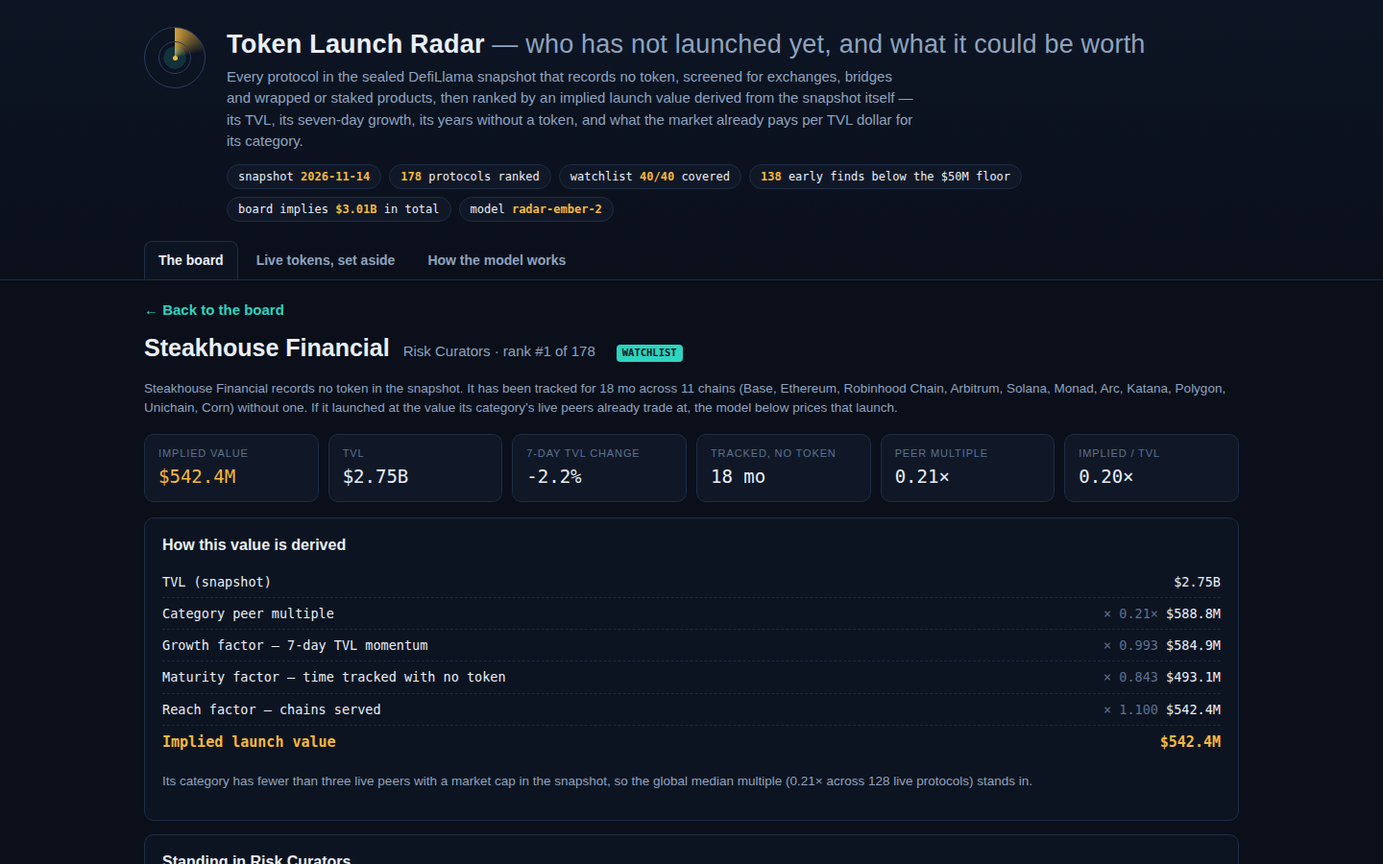
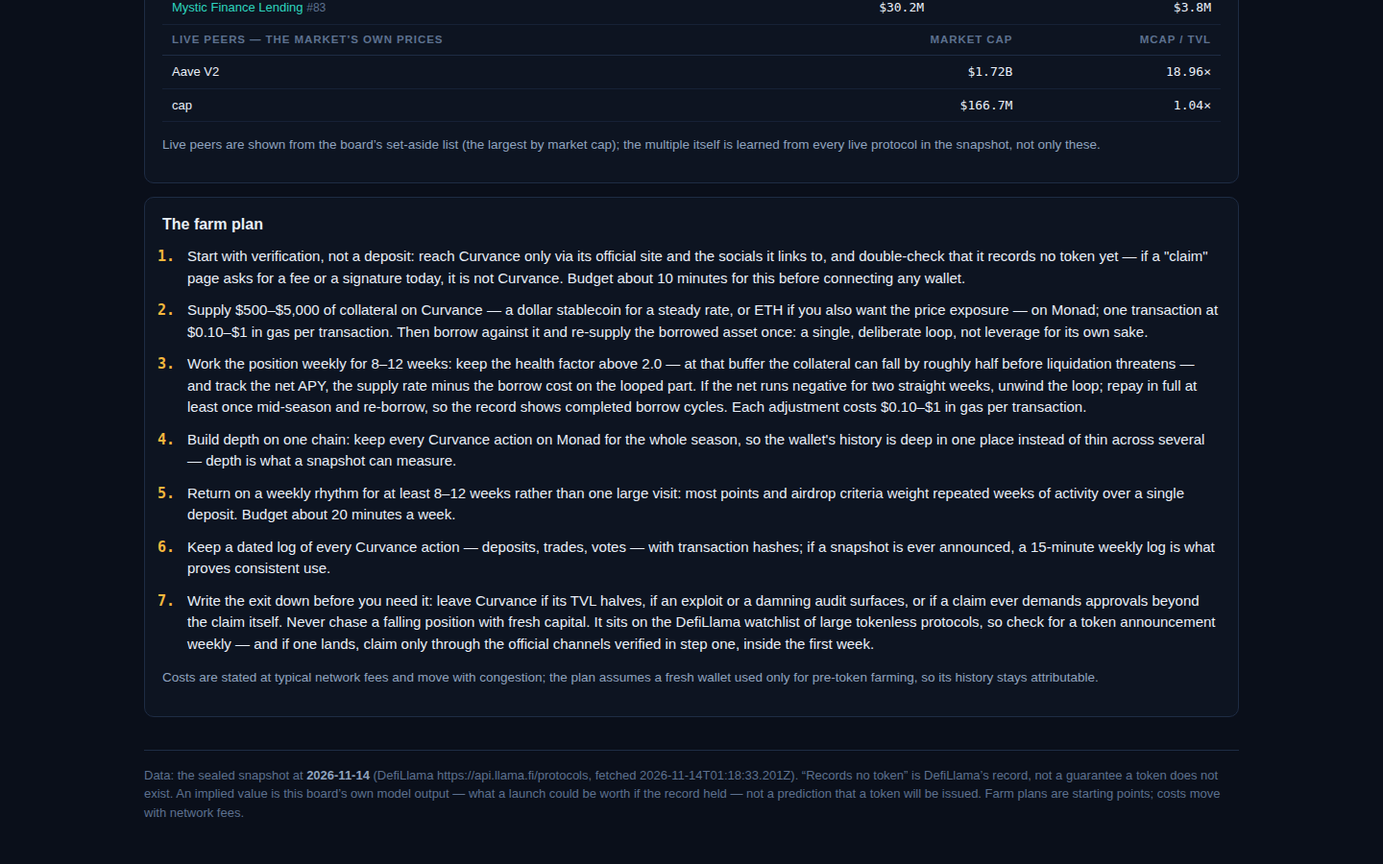
Upload via Muse GitHub connector

Changed region(s): [[0.0938, 0.0, 0.9062, 1.0]]

diff --git a/lib/model.ts b/lib/model.ts
@@ -237,10 +237,26 @@ function sizeTier(tvl: number): string {
   return '$100–$1,000';
 }
 
+/** A small deterministic hash of a slug, so wording variants are stable per protocol. */
+function slugHash(slug: string): number {
+  let h = 0;
+  for (let i = 0; i < slug.length; i++) h = (h * 31 + slug.charCodeAt(i)) >>> 0;
+  return h;
+}
+
+/** Pick one of `variants` for this slug, deterministically — the same protocol always reads the same. */
+function variant<T>(slug: string, variants: readonly T[]): T {
+  return variants[slugHash(slug) % variants.length]!;
+}
+
 /**
- * The farm plan: five concrete steps per protocol, written from its category playbook and its own
- * figures — where to start, what to deposit or trade, how often to return, what it costs and how
- * long it takes. Steps name costs and time because a plan without them is a slogan.
+ * The farm plan: seven concrete steps per protocol, written from its category playbook and its own
+ * figures. The first step verifies the premise — official channels only, and the protocol still
+ * records no token — and the last step sets the safety and exit rules; both rotate through several
+ * phrasings so no two protocols read as the same template. The two middle steps carry the category's
+ * real mechanics: a lending loop is not a bridge run is not a vault hold. Then one step written from
+ * the protocol's own record, the weekly rhythm, and the activity log. Steps name costs and time
+ * because a plan without them is a slogan.
  */
 export function farmSteps(p: SnapshotProtocol, onWatchlist: boolean, asOf: string): string[] {
   const home = cheapestChain(p.chains);
@@ -248,12 +264,16 @@ export function farmSteps(p: SnapshotProtocol, onWatchlist: boolean, asOf: strin
   const size = sizeTier(p.tvl_usd);
   const where = p.chains.length > 1 ? `${cost.note} — the cheapest of its ${p.chains.length} chains to farm on` : cost.note;
   const cat = p.category ?? 'DeFi';
-  const open = `Open ${p.name} on ${where} and connect a fresh wallet you use only for pre-token farming, so its activity is clean to attribute. Setup takes about 10 minutes and costs ${cost.gas}.`;
+
+  // Step 1 — verify the premise before any funds move. Four phrasings, one per protocol.
+  const verify = variant(p.slug, [
+    `Before any funds move, verify ${p.name} through its official channels only — the site linked from its DefiLlama page and its linked socials — and confirm it still records no token: no contract address, no claim page, no trading pair. The check takes about 10 minutes and is what keeps a fake claim site from taking the whole position.`,
+    `Start with verification, not a deposit: reach ${p.name} only via its official site and the socials it links to, and double-check that it records no token yet — if a "claim" page asks for a fee or a signature today, it is not ${p.name}. Budget about 10 minutes for this before connecting any wallet.`,
+    `Confirm the premise first: open ${p.name} from a source you trust, never a search ad or a DM link, and verify no token exists — no listed contract, no pair, no claim portal. This board ranks it precisely because it records no token; spend 10 minutes proving that is still true before acting.`,
+    `Do the counterfeit check first: find ${p.name}'s official site and socials independently, confirm the addresses match across both, and confirm it still records no token. Impostor claim sites are the main way pre-token farmers lose money, and the check takes about 10 minutes.`,
+  ]);
   const track = `Keep a dated log of every ${p.name} action — deposits, trades, votes — with transaction hashes; if a snapshot is ever announced, a 15-minute weekly log is what proves consistent use.`;
   const habit = `Return on a weekly rhythm for at least 8–12 weeks rather than one large visit: most points and airdrop criteria weight repeated weeks of activity over a single deposit. Budget about 20 minutes a week.`;
-  const close = onWatchlist
-    ? `Watch for a ${p.name} token announcement each week — it sits on the DefiLlama watchlist of large tokenless protocols, so set a calendar check; when claims open, act in the first days, not the last.`
-    : `Watch for a ${p.name} token announcement each week and re-check its TVL trend monthly; if TVL falls for three straight months, move the capital to a higher-ranked board row instead.`;
   // One step written from this protocol's own record: momentum, decline, longevity or reach.
   const age = ageDays(asOf, p.listed_at);
   let signal: string;
@@ -270,28 +290,108 @@ export function farmSteps(p: SnapshotProtocol, onWatchlist: boolean, asOf: strin
   }
   const byCategory: Record<string, string[]> = {
     Lending: [
-      `Supply ${size} of a major asset (ETH or a dollar stablecoin) as collateral on ${p.name}; supplying is one transaction at ${cost.gas} and starts earning the supply rate immediately.`,
-      `Borrow a small, safe amount against the collateral — keep the health factor above 2.0 — and repay within the same week: a completed borrow-and-repay cycle is the usage pattern lending launches usually reward, and it costs one extra round trip of gas.`,
+      `Supply ${size} of collateral on ${p.name} — a dollar stablecoin for a steady rate, or ETH if you also want the price exposure — on ${where}; one transaction at ${cost.gas}. Then borrow against it and re-supply the borrowed asset once: a single, deliberate loop, not leverage for its own sake.`,
+      `Work the position weekly for 8–12 weeks: keep the health factor above 2.0 — at that buffer the collateral can fall by roughly half before liquidation threatens — and track the net APY, the supply rate minus the borrow cost on the looped part. If the net runs negative for two straight weeks, unwind the loop; repay in full at least once mid-season and re-borrow, so the record shows completed borrow cycles. Each adjustment costs ${cost.gas}.`,
     ],
     Dexs: [
-      `Swap ${size} across the main pairs on ${p.name} in 4–6 separate trades over two weeks rather than one block: consistent volume with ${cost.gas} per swap reads as real use, not wash activity.`,
-      `Add a two-sided liquidity position of ${size} to a top-three pool by TVL and leave it at least a month; LP positions are the deepest usage signal a DEX records, and withdrawing early forfeits most of it.`,
-    ],
-    Yield: [
-      `Deposit ${size} into ${p.name}'s flagship vault and hold the position at least 8 weeks; vault share balance over time is the record a launch would most plausibly snapshot.`,
-      `Claim or compound the vault's yield every two weeks — each claim is one transaction at ${cost.gas} — so the wallet shows an unbroken history of active, returning use.`,
+      `Generate genuine volume on ${p.name}: swap ${size} in total across its main pairs in 6–10 separate trades over the first two weeks, on ${where} at ${cost.gas} per swap. Never wash trade — no round-trips or self-matched trades placed only to inflate volume; DEX launches screen for exactly that, and it can void a wallet's whole history. Every trade should move you between assets you actually want to hold.`,
+      `Split the flow between maker and taker: rest limit orders where ${p.name} supports them — maker fees typically run a fraction of taker fees — and take liquidity only for real rebalancing. Then add ${size} of two-sided liquidity to a top-three pool and leave it at least a month: LP depth held over time is the deepest usage signal a DEX records.`,
     ],
     Derivatives: [
-      `Open small perpetual positions totalling ${size} of margin on ${p.name}, a few trades a week for a month: steady volume across separate days is the metric derivatives launches track, at ${cost.gas} per order.`,
-      `Keep total leverage under 3x and close every position before funding payments compound; the goal is a long, ordinary trading history, not profit — cap the whole experiment's loss at 5% of the margin.`,
+      `Trade small perpetuals on ${p.name}: a few trades a week for at least a month, ${size} of margin in total, on ${where} at ${cost.gas} per order. Prefer maker orders where offered — maker fees run well below taker fees — and hedge directional trades with an offsetting spot position, so the flow is genuine hedging rather than volume for its own sake. Never wash trade: self-matched volume is screened out and can disqualify the wallet outright.`,
+      `Respect the funding rate: before holding a position overnight, check whether longs or shorts are paying funding on ${p.name} and avoid sitting on the paying side for days. Keep leverage under 3x, close positions before funding compounds, and cap the whole experiment's loss at 5% of the margin — over 8–12 weeks the prize is a long, ordinary trading history, not profit.`,
     ],
-    Perps: [
-      `Open small perpetual positions totalling ${size} of margin on ${p.name}, a few trades a week for a month: steady volume across separate days is the metric derivatives launches track, at ${cost.gas} per order.`,
-      `Keep total leverage under 3x and close every position before funding payments compound; the goal is a long, ordinary trading history, not profit — cap the whole experiment's loss at 5% of the margin.`,
+    Yield: [
+      `Deposit ${size} into ${p.name}'s flagship vault on ${where} — one transaction at ${cost.gas}. Before depositing, name the vault's yield source in your log: lending interest, trading fees, or emissions. Yield paid from real revenue can survive to a launch; yield promised from a token that does not exist yet is a hope, and should be sized like one.`,
+      `Track the share token, not the balance: record the vault shares received and the share price weekly for 8–12 weeks — share-price growth is the vault's true return, since the share count never changes. Mid-season, test the exit with a small withdrawal and time it: withdrawal queues and cooldowns lengthen exactly when everyone leaves, and knowing yours in advance is part of the position.`,
+    ],
+    'Yield Aggregator': [
+      `Deposit ${size} into ${p.name}'s main auto-compounding vault on ${where} at ${cost.gas}. An aggregator routes deposits across underlying farms, so read which strategies the vault currently runs and where its APY is sourced before the deposit — you are farming the aggregator's choices as much as your own.`,
+      `Let it compound untouched for at least 8 weeks: the unbroken, compounding balance is the record a launch would snapshot. Check monthly that the vault has not rotated into a strategy you would not pick yourself, and make one small test withdrawal mid-season to learn its exit timing and fees while nothing is urgent.`,
+    ],
+    'Risk Curators': [
+      `Deposit ${size} into a ${p.name}-curated vault on ${where} — one transaction at ${cost.gas}. Curators allocate other people's money across lending markets, so choose the vault by its stated risk framework — which collateral it accepts, its loan-to-value caps — rather than by the highest APY on the page.`,
+      `Monitor the curation, not just the yield: a curator can reallocate between markets and loosen or tighten risk parameters at any time, so re-read the vault's allocations monthly across the 8–12 week season. If it moves into collateral you would not hold directly, withdraw — the curator's track record is only worth farming while its risk stays inside yours.`,
+    ],
+    'Onchain Capital Allocator': [
+      `Allocate ${size} through ${p.name}'s main vault or strategy on ${where} at ${cost.gas}. Allocators route capital across on-chain opportunities under a stated mandate, so read the current allocation breakdown first: which protocols hold the money, in what proportions, and what the strategy may change without asking.`,
+      `Hold the allocation for a full 8–12 week season and follow the rebalances: log each time ${p.name} shifts capital between strategies, and claim or compound distributions on the protocol's own schedule. A season of continuously held, rebalanced allocation is exactly the history an allocator's launch can measure.`,
+    ],
+    'Basis Trading': [
+      `Run a small delta-neutral basis position through ${p.name} with ${size}: pair a spot holding against an offsetting short (or the reverse) to harvest funding and spread, on ${where} at ${cost.gas} per leg. Confirm both legs are live before sizing up — an unpaired leg is a directional bet wearing a basis trade's clothes.`,
+      `Check the carry weekly for 8–12 weeks: funding flips sign, so log the net carry after all fees each week and close the position if it stays negative for two straight weeks. Keep margin buffers wide on both legs — a basis trade's real risk is one leg liquidating in a fast move, not the spread closing.`,
     ],
     CDP: [
-      `Open a collateralised position on ${p.name}: deposit ${size} of ETH or a liquid staking token and mint the stablecoin at a conservative 200%+ collateral ratio, one transaction at ${cost.gas}.`,
-      `Hold the minted position open for at least 8 weeks and service it monthly — top up or repay a little each month — so the wallet's record shows a maintained vault, not a drive-by mint.`,
+      `Open a collateralised position on ${p.name}: deposit ${size} of ETH or a liquid staking token on ${where} and mint its stablecoin at a collateral ratio of 200% or higher — one transaction at ${cost.gas}. The wide buffer is deliberate: at 200%, the collateral can fall by half before liquidation threatens the position.`,
+      `Hold the minted position open at least 8 weeks and service it monthly — top up collateral after sharp drops, or repay a little — while watching the stability fee, which accrues against the debt continuously. The position's net cost is that fee minus whatever the minted stablecoin earns where you park it; a maintained vault, not a drive-by mint, is the record that counts.`,
+    ],
+    Bridge: [
+      `Move real funds through ${p.name}: bridge ${size} to a chain you genuinely use, carrying your own working balances on trips you would make anyway, at its stated fee plus ${cost.gas} per transfer. Never bridge funds back and forth just to manufacture volume — bridge analytics flag round-trip patterns, and flagged flow is worth less than none.`,
+      `Diversify the routes over 8–12 weeks: use at least three different source-and-destination pairs ${p.name} supports, and cap the all-in cost of each transfer at roughly 0.5% of the amount moved — if a route quotes more, wait for a cheaper window. Route diversity with a real purpose behind it is the history a bridge launch can reward.`,
+    ],
+    'Liquid Staking': [
+      `Stake ${size} of the chain's native asset through ${p.name} on ${where} at ${cost.gas}, and hold the liquid staking token you receive. Note the exchange rate at deposit in your log: the rate, not the token count, carries the staking yield, and an unbroken hold is what a duration-weighted record rewards.`,
+      `Hold the staking token for at least 8–12 weeks; put a portion to work as collateral or in a liquidity pool if you want the composability these tokens exist for. Before adding size, run one small unstake and time it end to end — staking exit queues run from days to weeks, and that wait is part of the position's real cost.`,
+    ],
+    Restaking: [
+      `Restake ${size} of an already-staked asset through ${p.name} on ${where} at ${cost.gas}: you keep the base staking yield and add the restaking layer's record on top. First read exactly which services the restaked capital secures — that list, and its slashing conditions, is the extra risk being accepted.`,
+      `Hold the restaked position for a full season of at least 8–12 weeks, tracking base staking yield and restaking incentives as separate lines in your log. Test a small exit mid-season and time it: restaking withdrawal queues can run a week or more, and an exit you have rehearsed is worth more than a yield point.`,
+    ],
+    Chain: [
+      `Be an early citizen of the ${p.name} chain rather than a passer-by: bridge ${size} in through its official route and keep it on-chain for the season. A pre-token chain can only reward wallets that were genuinely there, and bridged-and-used beats bridged-and-idle; the bridge-in costs the bridge's fee plus ${cost.gas}.`,
+      `Use the chain weekly for 8–12 weeks — ordinary transfers, its first-party apps, a small permanent balance left on-chain. If a validator or staking programme exists, stake a portion: on a chain with no token yet, transacting and staking are the two histories a genesis allocation can actually measure.`,
+    ],
+    'Staking Pool': [
+      `Stake ${size} through ${p.name}'s pool on ${where} at ${cost.gas} and hold the staking receipt: pooled staking is the whole product, so the record that matters is stake duration and continuity, not trading activity around it.`,
+      `Leave the stake untouched for at least 8–12 weeks, compounding rewards back in monthly where the pool allows it. Learn the unbonding period before you need it — pooled stakes can take days to weeks to release, and that queue is a real cost of the position, not a detail.`,
+    ],
+    'Liquidity Manager': [
+      `Deposit ${size} into ${p.name}'s managed liquidity position on ${where} at ${cost.gas}. The manager sets and rebalances the price range for you, so read its stated range strategy and recent fee history first: you are farming the manager's competence as much as the pool's volume.`,
+      `Hold at least 8 weeks while the manager works: log each rebalance and the fees earned net of impermanent loss. If the position sits out of range for two straight weeks with no rebalance, withdraw — a managed position nobody manages earns nothing and still carries the pool's risk.`,
+    ],
+    CeDeFi: [
+      `Onboard with ${p.name} before depositing anything: account setup, identity checks and terms can take several days, and CeDeFi yields are generated through centralised or off-chain venues — read how returns are produced and what custody you are accepting, then place ${size} in its main product at ${cost.gas} per action.`,
+      `Keep the position for one full product term (typically 4–12 weeks) and withdraw once at maturity to prove the exit works end to end. Size this as the riskiest slice of the whole farm: the counterparty is the protocol itself, and no on-chain record diversifies that away.`,
+    ],
+    'Anchor BTC': [
+      `Bring ${size} of bitcoin exposure to ${p.name} through its stated route on ${where}: BTC-anchored products take deposits of BTC or a BTC derivative, so confirm exactly which asset it accepts and what receipt asset you get back — the receipt is your real position. Any wrap or bridge fee sits on top of ${cost.gas}.`,
+      `Hold for at least 8–12 weeks and check the backing monthly wherever ${p.name} publishes reserves or mint-and-burn records. BTC products live or die on redemption: test a small withdrawal mid-season and time it, because an exit that takes days changes what the position is actually worth.`,
+    ],
+    'Leveraged Farming': [
+      `Open a modest leveraged farm on ${p.name} with ${size} of equity on ${where}: borrow against the deposit to farm a larger position, but keep leverage at or under 2x — the liquidation threshold, not the headline APY, decides whether the position survives an 8–12 week season. Opening or adjusting costs ${cost.gas} each.`,
+      `Check the position's health weekly and after any 10% market move. Leveraged farming accrues borrow cost continuously, so compute the net APY — farm yield minus borrow rate — monthly and deleverage if it turns negative; a completed season that was never liquidated is the record worth having.`,
+    ],
+    'Dual-Token Stablecoin': [
+      `Take the stability side of ${p.name}'s system with ${size} on ${where} at ${cost.gas}: mint or acquire its stablecoin through the protocol's own route and hold or deposit it where the system directs. In a dual-token design the second token absorbs volatility — understand which side of that bargain you are on before depositing.`,
+      `Watch the peg weekly for 8–12 weeks and set the exit rule now: leave if the coin trades 2% or more off its peg for over 48 hours. Track what backs the coin and how losses are socialised; a stablecoin farm's yield is small and steady, and its risk is neither — size accordingly.`,
+    ],
+    'Stablecoin Wrapper': [
+      `Wrap ${size} of a yield-bearing stablecoin through ${p.name} on ${where} at ${cost.gas}, and record the exchange rate you receive: wrapper shares appreciate as the underlying yield accrues, so the share price — not the share count — is where your return will show up.`,
+      `Hold the wrapped position at least 8–12 weeks, checking monthly that the wrapper's share price tracks the underlying asset's yield as it should. Test a small unwrap mid-season: redemption timing and any exit fee are a wrapper's real costs, and they only become visible at the exit.`,
+    ],
+    'Collateral Markets': [
+      `Supply ${size} of collateral through ${p.name} on ${where} at ${cost.gas}. Collateral markets let networks draw shared security from deposited assets, so read which networks your collateral would secure and exactly what slashing conditions apply before the deposit — that underwriting is the product.`,
+      `Hold the collateral for a full 8–12 week season and re-check the network list monthly: every network added changes the risk your deposit underwrites. Keep the position in an asset you would hold anyway; the yield here is compensation for slashing risk, not a free return.`,
+    ],
+    'Governance Incentives': [
+      `Work ${p.name}'s incentive programme by its own rulebook: read which actions earn, over what epochs, and what rewards are paid in, then complete the qualifying actions exactly as specified with ${size} on ${where} — enrolment actions cost ${cost.gas} each. Programmes reward rule-exact participation, not approximations of it.`,
+      `Complete every epoch rather than dipping into one: incentive programmes snapshot participation per epoch, so a full run of epochs across 8–12 weeks outweighs one large week. Claim each epoch's reward as it lands — unclaimed epoch rewards are the most common way these farms quietly pay zero.`,
+    ],
+    'Crypto Card Issuer': [
+      `Activate ${p.name}'s card and load it with ${size} for spending you would do anyway. A card issuer's launch record is genuine payment volume, so route ordinary weekly purchases through the card rather than manufacturing spend that teaches the issuer nothing about you as a customer.`,
+      `Keep the card active at least 8–12 weeks with regular small transactions and a balance held in the linked account between spends. If a cashback or rewards tier exists, reach it through normal spending only — returned purchases and self-payments are precisely the patterns card issuers exclude from rewards.`,
+    ],
+    'Uncollateralized Lending': [
+      `Lend ${size} through ${p.name} on ${where} at ${cost.gas}. Uncollateralised lending means borrowers are vetted by underwriting or reputation rather than by locked collateral, so read who borrows, what stands behind them, and what happens on default before choosing a pool — the borrower's quality is the product.`,
+      `Spread the position across at least two pools or borrowers if ${p.name} allows it, and hold each loan to its stated term, typically 30–90 days. Default risk is this product's real price: a single default can erase a year of interest, so size the position as if one loan in five might fail.`,
+    ],
+    'Prediction Market': [
+      `Trade ${size} across ${p.name}'s markets on ${where} at ${cost.gas} per trade, taking positions on events you genuinely have a view on. Prediction markets record resolved, honestly-held positions; a history of settled trades across several markets is the usage a launch can count.`,
+      `Let positions settle rather than always selling out early — settlement is the on-chain event that completes the record. Spread activity across at least 8 weeks and several unrelated markets; one day of concentrated volume on a single market reads as farming, not forecasting.`,
+    ],
+    'Interest Rate Derivatives': [
+      `Take a small interest-rate position on ${p.name} with ${size} on ${where} at ${cost.gas}: fix or float a rate against an underlying lending market you already understand, and note the maturity date in your log — rate positions expire, so the record here is a series of completed terms, not one open position.`,
+      `Roll at each maturity for at least two full terms (typically 4–12 weeks each), holding a consistent view. Keep total margin and premiums under 2% of your farming budget: in rate markets, longevity of participation is what distinguishes a user from a tourist.`,
     ],
     Launchpad: [
       `Register on ${p.name} and complete one small participation of ${size} in a live sale, following its stated allocation rules exactly; a completed, rule-abiding entry is the record that matters if access later becomes token-gated.`,
@@ -342,12 +442,34 @@ export function farmSteps(p: SnapshotProtocol, onWatchlist: boolean, asOf: strin
       `Harvest or compound weekly — one transaction at ${cost.gas} — for at least 8 weeks, so the wallet accumulates the repeated-action history farm launches snapshot.`,
     ],
   };
+  // Aliases: playbooks shared by the category strings the snapshot actually uses for the same mechanics.
+  byCategory['Perps'] = byCategory['Derivatives']!;
+  byCategory['CDP Manager'] = byCategory['CDP']!;
+  byCategory['Canonical Bridge'] = byCategory['Bridge']!;
+  byCategory['Cross Chain Bridge'] = byCategory['Bridge']!;
+  byCategory['Liquid Restaking'] = byCategory['Restaking']!;
+  byCategory['Decentralized BTC'] = byCategory['Anchor BTC']!;
+  byCategory['Algo-Stables'] = byCategory['Dual-Token Stablecoin']!;
+  byCategory['Stablecoin Issuer'] = byCategory['Dual-Token Stablecoin']!;
+  byCategory['Options Vault'] = byCategory['Options']!;
   const middle = byCategory[cat] ?? [
-    `Put ${size} to work in ${p.name}'s main product — its highest-TVL pool, vault or market — and leave it in place at least 8 weeks; a held position is the record a launch snapshots.`,
-    `Make one small additional action every two weeks (a deposit top-up, a claim, or a rebalance) at ${cost.gas} each, so the wallet reads as an active user across the whole season.`,
+    `Put ${size} to work in ${p.name}'s main ${cat.toLowerCase()} product — its highest-TVL offering — on ${where}, and leave it in place at least 8 weeks; a held position is the record a launch snapshots, and each action costs ${cost.gas}.`,
+    `Make one small additional action every two weeks (a deposit top-up, a claim, or a rebalance) at ${cost.gas} each, so the wallet reads as an active ${cat.toLowerCase()} user across the whole season rather than a single visit.`,
   ];
-  return [open, middle[0]!, middle[1]!, signal, habit, track, close];
+
+  // Step 7 — the safety and exit rules, in four phrasings; the tail differs for watchlist rows.
+  const tail = onWatchlist
+    ? `It sits on the DefiLlama watchlist of large tokenless protocols, so check for a token announcement weekly — and if one lands, claim only through the official channels verified in step one, inside the first week.`
+    : `If its TVL falls for three straight months, move the capital to a higher-ranked board row instead; if a token is announced, claim only through the official channels verified in step one.`;
+  const exit = variant(p.slug, [
+    `Set the exit rules now, while nothing is at stake: cap the total at risk in ${p.name} at the ${size} band, review the position monthly, and withdraw in full if the protocol is exploited, goes silent for a full quarter, or its TVL halves from here. ${tail}`,
+    `Write the exit down before you need it: leave ${p.name} if its TVL halves, if an exploit or a damning audit surfaces, or if a claim ever demands approvals beyond the claim itself. Never chase a falling position with fresh capital. ${tail}`,
+    `Keep the position survivable: never let ${p.name} hold more than you could lose entirely, keep the farming wallet's seed phrase offline, and re-verify the official channels before every withdrawal — phishing peaks exactly when a launch is announced. ${tail}`,
+    `Plan the whole arc, not just the entry: farm ${p.name} for one season of 8–12 weeks, then reassess against the board — deepen, hold, or rotate out. An exit rehearsed in advance (a small test withdrawal mid-season) is an exit that works under pressure. ${tail}`,
+  ]);
+  return [verify, middle[0]!, middle[1]!, signal, habit, track, exit];
 }
+
 
 /** One row of board.json: the ranked board's row. */
 export interface BoardRow {
